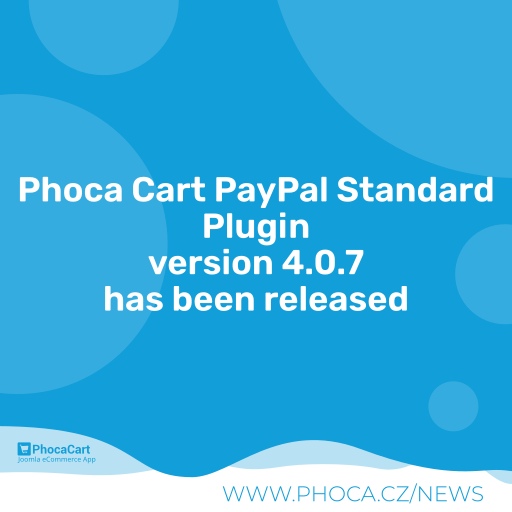
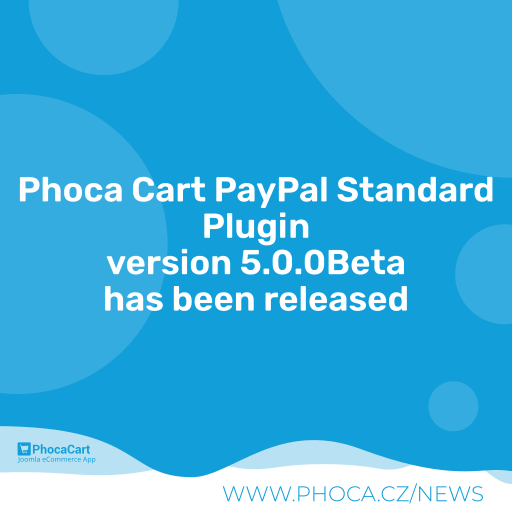
4.0.9

Changed region(s): [[0.1875, 0.4688, 0.8125, 0.5625]]

diff --git a/paypal_standard.php b/paypal_standard.php
@@ -8,6 +8,11 @@
  */
 
 defined('_JEXEC') or die;
+use Joomla\CMS\Factory;
+use Joomla\CMS\Uri\Uri;
+use Joomla\CMS\Language\Text;
+use Joomla\CMS\Plugin\CMSPlugin;
+
 jimport( 'joomla.plugin.plugin' );
 jimport( 'joomla.filesystem.file');
 jimport( 'joomla.html.parameter' );
@@ -17,7 +22,7 @@ jimport( 'joomla.html.parameter' );
 
 JLoader::registerPrefix('Phocacart', JPATH_ADMINISTRATOR . '/components/com_phocacart/libraries/phocacart');
 
-class plgPCPPaypal_Standard extends JPlugin
+class plgPCPPaypal_Standard extends CMSPlugin
 {
 	protected $name 	= 'paypal_standard';
 
@@ -52,17 +57,17 @@ class plgPCPPaypal_Standard extends JPlugin
 		$message = array();
 		/*
 		// Order processed successfully made - no downloadable items
-		$message['order_nodownload'] 	= JText::_('COM_PHOCACART_ORDER_SUCCESSFULLY_PROCESSED')
-		.'</br>' . JText::_('COM_PHOCACART_ORDER_PROCESSED_ADDITIONAL_INFO');
+		$message['order_nodownload'] 	= Text::_('COM_PHOCACART_ORDER_SUCCESSFULLY_PROCESSED')
+		.'</br>' . Text::_('COM_PHOCACART_ORDER_PROCESSED_ADDITIONAL_INFO');
 		// Order processed successfully made - downloadable items
-		$message['order_download'] 		= JText::_('COM_PHOCACART_ORDER_SUCCESSFULLY_PROCESSED')
-		.'</br>' . JText::_('COM_PHOCACART_ORDER_PROCESSED_DOWNLOADABLE_ITEMS_ADDITIONAL_INFO');
+		$message['order_download'] 		= Text::_('COM_PHOCACART_ORDER_SUCCESSFULLY_PROCESSED')
+		.'</br>' . Text::_('COM_PHOCACART_ORDER_PROCESSED_DOWNLOADABLE_ITEMS_ADDITIONAL_INFO');
 		// Order and payment successfully made - no downloadable items
-		$message['payment_nodownload'] 	= JText::_('COM_PHOCACART_ORDER_AND_PAYMENT_SUCCESSFULLY_PROCESSED')
-		.'</br>' . JText::_('COM_PHOCACART_ORDER_PAYMENT_PROCESSED_ADDITIONAL_INFO');
+		$message['payment_nodownload'] 	= Text::_('COM_PHOCACART_ORDER_AND_PAYMENT_SUCCESSFULLY_PROCESSED')
+		.'</br>' . Text::_('COM_PHOCACART_ORDER_PAYMENT_PROCESSED_ADDITIONAL_INFO');
 		// Order and payment successfully made - downloadable items
-		$message['payment_download']	= JText::_('COM_PHOCACART_ORDER_AND_PAYMENT_SUCCESSFULLY_PROCESSED')
-		.'</br>' . JText::_('COM_PHOCACART_ORDER_PAYMENT_PROCESSED_DOWNLOADABLE_ITEMS_ADDITIONAL_INFO');
+		$message['payment_download']	= Text::_('COM_PHOCACART_ORDER_AND_PAYMENT_SUCCESSFULLY_PROCESSED')
+		.'</br>' . Text::_('COM_PHOCACART_ORDER_PAYMENT_PROCESSED_DOWNLOADABLE_ITEMS_ADDITIONAL_INFO');
 		*/
 
 		return true;
@@ -87,12 +92,12 @@ class plgPCPPaypal_Standard extends JPlugin
 		/*
 		switch($mid) {
 			case 1:
-				$message['payment_canceled']	= JText::_('COM_PHOCACART_PAYMENT_CANCELED')
-				.'</br>' . JText::_('COM_PHOCACART_ORDER_PAYMENT_CANCELED_ADDITIONAL_INFO');
+				$message['payment_canceled']	= Text::_('COM_PHOCACART_PAYMENT_CANCELED')
+				.'</br>' . Text::_('COM_PHOCACART_ORDER_PAYMENT_CANCELED_ADDITIONAL_INFO');
 			break;
 			default:
-				$message['payment_canceled']	= JText::_('COM_PHOCACART_PAYMENT_CANCELED')
-				.'</br>' . JText::_('COM_PHOCACART_ORDER_PAYMENT_CANCELED_ADDITIONAL_INFO');
+				$message['payment_canceled']	= Text::_('COM_PHOCACART_PAYMENT_CANCELED')
+				.'</br>' . Text::_('COM_PHOCACART_ORDER_PAYMENT_CANCELED_ADDITIONAL_INFO');
 			break;
 		}
 		*/
@@ -107,7 +112,7 @@ class plgPCPPaypal_Standard extends JPlugin
 			return false;
 		}
 
-		$document				= JFactory::getDocument();
+		$document				= Factory::getDocument();
 		$sandbox 				= $params->get('sandbox', 0);
 		$merchant_email			= $params->get('merchant_email', '');
 		$address_override		= $params->get('address_override', '');
@@ -144,7 +149,7 @@ class plgPCPPaypal_Standard extends JPlugin
 		//$invoice_number_chars	= $paramsC->get( 'invoice_number_chars', 12);
 		$invoiceNr				= PhocacartOrder::getInvoiceNumber($order['common']->id, $order['common']->date, $order['common']->invoice_number);
 		$orderNr				= PhocacartOrder::getOrderNumber($order['common']->id, $order['common']->date, $order['common']->order_number);
-		$itemName				= JText::_('COM_PHOCACART_ORDER') . ': ' . $orderNr;
+		$itemName				= Text::_('COM_PHOCACART_ORDER') . ': ' . $orderNr;
 
 		$actionLink = 'https://www.paypal.com/cgi-bin/webscr';
 		if ($sandbox == 1) {
@@ -163,9 +168,9 @@ class plgPCPPaypal_Standard extends JPlugin
 			$paymentId = 0;
 		}
 
-		$return 		= JURI::root(false). 'index.php?option=com_phocacart&view=response&task=response.paymentrecieve&type=paypal_standard&mid=1';
-		$cancel_return 	= JURI::root(false). 'index.php?option=com_phocacart&view=response&task=response.paymentcancel&type=paypal_standard&mid=1';
-		$notify_url 	= JURI::root(false). 'index.php?option=com_phocacart&view=response&task=response.paymentnotify&type=paypal_standard&pid='.(int)$paymentId.'&tmpl=component';
+		$return 		= Uri::root(false). 'index.php?option=com_phocacart&view=response&task=response.paymentrecieve&type=paypal_standard&mid=1';
+		$cancel_return 	= Uri::root(false). 'index.php?option=com_phocacart&view=response&task=response.paymentcancel&type=paypal_standard&mid=1';
+		$notify_url 	= Uri::root(false). 'index.php?option=com_phocacart&view=response&task=response.paymentnotify&type=paypal_standard&pid='.(int)$paymentId.'&tmpl=component';
 		//$payment_action = '';
 
 		$f		= array();
@@ -320,7 +325,7 @@ class plgPCPPaypal_Standard extends JPlugin
 		}
 
 		if (round($currencyAmount, 2, $rounding_calculation) > 0) {
-			$f[]	= '<input type="hidden" name="item_name_'.$i.'" value="'.JText::_('COM_PHOCACART_CURRENCY_ROUNDING').'" />';
+			$f[]	= '<input type="hidden" name="item_name_'.$i.'" value="'.Text::_('COM_PHOCACART_CURRENCY_ROUNDING').'" />';
 			$f[]	= '<input type="hidden" name="amount_'.$i.'" value="'. round($currencyAmount, 2, $rounding_calculation).'" />';
 			$f[]	= '<input type="hidden" name="quantity_'.$i.'" value="1" />';
 			$i++;
@@ -369,13 +374,13 @@ class plgPCPPaypal_Standard extends JPlugin
 		//$f[]	= '<input type="hidden" name="paymentaction" value="'.$payment_action.'" />';// sale
 
 		$f[]	= '<div class="ph-center">';
-		$f[]	= '<div>'.JText::_('COM_PHOCACART_ORDER_SUCCESSFULLY_PROCESSED').'</div>';
-		$f[]	= '<div>'.JText::_('PLG_PCP_PAYPAL_STANDARD_YOU_ARE_NOW_BEING_REDIRECTED_TO_PAYPAL').'</div>';
+		$f[]	= '<div>'.Text::_('COM_PHOCACART_ORDER_SUCCESSFULLY_PROCESSED').'</div>';
+		$f[]	= '<div>'.Text::_('PLG_PCP_PAYPAL_STANDARD_YOU_ARE_NOW_BEING_REDIRECTED_TO_PAYPAL').'</div>';
 
 		$f[]	= '<div class="ph-loader"></div>';
 
-		$f[]	= '<div>'.JText::_('PLG_PCP_PAYPAL_STANDARD_IF_YOU_ARE_NOT_REDIRECTED_WITHIN_A_FEW_SECONDS_PLEASE').' ';
-		$f[]	= '<input type="submit" class="btn btn-primary" value="'.JText::_('PLG_PCP_PAYPAL_CLICK_HERE_TO_BE_REDIRECTED_TO_PAYPAL').'" class="button" />';
+		$f[]	= '<div>'.Text::_('PLG_PCP_PAYPAL_STANDARD_IF_YOU_ARE_NOT_REDIRECTED_WITHIN_A_FEW_SECONDS_PLEASE').' ';
+		$f[]	= '<input type="submit" class="btn btn-primary" value="'.Text::_('PLG_PCP_PAYPAL_CLICK_HERE_TO_BE_REDIRECTED_TO_PAYPAL').'" class="button" />';
 		$f[]	= '</div>';
 		$f[]	= '</div>';
 
@@ -412,7 +417,7 @@ class plgPCPPaypal_Standard extends JPlugin
 			require_once( JPATH_SITE.'/plugins/pcp/paypal_standard/helpers/ipnlistener.php');
 		}
 
-		$app		= JFactory::getApplication();
+		$app		= Factory::getApplication();
 		$verified 	= false;
 		$listener 	= new PhocacartPaypalStandardIpnListener();
 
@@ -570,13 +575,13 @@ class plgPCPPaypal_Standard extends JPlugin
 
 
 
-								$comment	= JText::_('COM_PHOCACART_ORDER_STATUS_CHANGED_BY_PAYMENT_SERVICE_PROVIDER') . '(Paypal Standard)';
+								$comment	= Text::_('COM_PHOCACART_ORDER_STATUS_CHANGED_BY_PAYMENT_SERVICE_PROVIDER') . '(Paypal Standard)';
 
-								$comment .= "\n" . JText::_('COM_PHOCACART_INFORMATION');
-								$comment .= "\n". JText::_('COM_PHOCACART_PAYMENT_ID'). ': '. $txnId;
-								$comment .= "\n". JText::_('COM_PHOCACART_PAYMENT_AMOUNT'). ': '. $mcGross;
-								$comment .= "\n". JText::_('COM_PHOCACART_PAYMENT_FEE'). ': '. $mcFee;
-								$comment .= "\n". JText::_('COM_PHOCACART_PAYMENT_STATUS'). ': '. $paymentStatus;
+								$comment .= "\n" . Text::_('COM_PHOCACART_INFORMATION');
+								$comment .= "\n". Text::_('COM_PHOCACART_PAYMENT_ID'). ': '. $txnId;
+								$comment .= "\n". Text::_('COM_PHOCACART_PAYMENT_AMOUNT'). ': '. $mcGross;
+								$comment .= "\n". Text::_('COM_PHOCACART_PAYMENT_FEE'). ': '. $mcFee;
+								$comment .= "\n". Text::_('COM_PHOCACART_PAYMENT_STATUS'). ': '. $paymentStatus;
 								// Add status history
 								PhocacartOrderStatus::setHistory((int)$id, (int)$statusOption, (int)$notify, $comment);
 

diff --git a/README.MD b/README.MD
@@ -60,7 +60,11 @@ Phoca Cart Payment - PayPal Standard - payment method for Phoca Cart component. 
 
 ## Version (Joomla! 4.x)
 
-4.0.7
+4.0.9
+
+## Version (Joomla! 5.x)
+
+5.0.0Beta
 
 
 
@@ -71,3 +75,17 @@ GNU/GPL
 
 
 This project is open source project - feel free to contribute! Thank you.
+
+
+
+## Social Media
+
+- [Phoca on Facebook](https://www.facebook.com/Phoca.cz)
+
+- [Phoca on X (Twitter)](https://twitter.com/PhocaCz)
+
+- [Phoca on YouTube](https://www.youtube.com/user/phocavideos)
+
+- [Phoca on GitHub](https://github.com/PhocaCz)
+
+- [Phoca on Reddit](https://www.reddit.com/user/PhocaCz)
